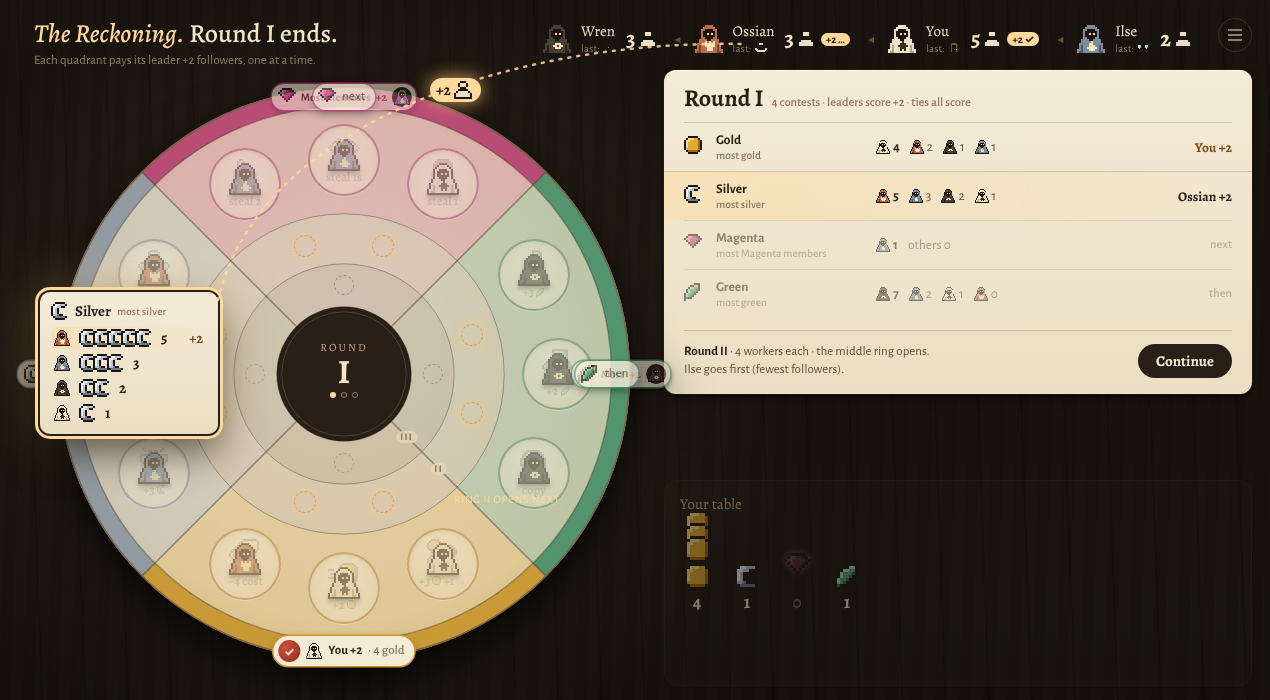
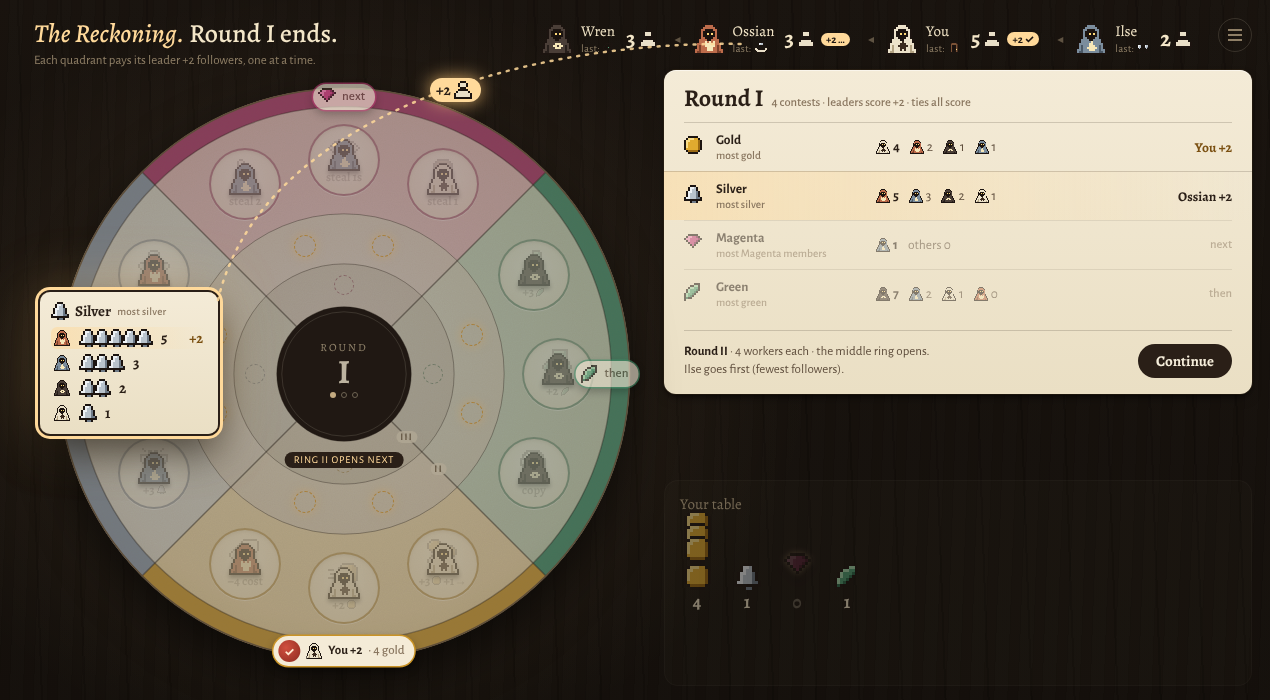
WIP checkpoint: agents in progress
Claude-Session: https://claude.ai/code/session_017rw3aQa9iJEjdvvwQLY84z

diff --git a/src/test/engine/v4/cards-echo.test.js b/src/test/engine/v4/cards-echo.test.js
@@ -11,7 +11,7 @@ const QT = ['gold', 'thieves', 'market', 'echo'];
 useCosts({
   'gold.tycoon': [8, 4], 'gold.taxman': [2, 2], 'gold.midas': [4, 4], 'red.bigfamily': [4, 4], 'red.twins': [2, 2],
   'red.intern': [2, 0], 'red.volunteer': [0, 0], 'red.doppel': [4, 2],
-  'echo.evergreen': [2, 2], 'echo.choir': [4, 2], 'echo.muse': [2, 2], 'echo.choirmaster': [4, 2], 'echo.fan': [2, 2],
+  'echo.evergreen': [2, 2], 'echo.choir': [4, 2], 'echo.muse': [2, 2], 'echo.understudy': [4, 2], 'echo.ensemble': [4, 4],
   'echo.groupie': [4, 4], 'echo.translator': [4, 2], 'echo.tuningfork': [2, 2], 'echo.wallflower': [2, 2],
   'echo.keepsake': [4, 2], 'echo.mirror': [4, 2], 'echo.afterimage': [4, 2], 'echo.hourglass': [6, 4],
   'echo.dejavu': [8, 4], 'echo.chronicler': [4, 4], 'thieves.watchdog': [4, 2],
@@ -37,7 +37,7 @@ describe('Green actions', () => {
     expect(R(go(table(Q, { shop: ROW }), 'Chant')).green).toBe(2);
     expect(R(go(table(Q, { shop: ROW, round: 3, left: 5 }), 'Chant')).green).toBe(6);
   });
-  it('Echo: copy an outer-ring space taken this round (exactly its chip)', () => {
+  it('Echo: copy a space a rival took since your last turn (exactly its chip)', () => {
     const s = humThenEcho();
     expect(R(s).green).toBe(3);
     expect(s.log.some(l => /P1 copied Hum \(P2's\): \+3 green/.test(l))).toBe(true);
@@ -61,13 +61,14 @@ describe('Green actions', () => {
     s = take(s, 'Encore');
     expect(s.pending.options.map(o => o.label)).toEqual(['Chant (P2): +6 green']);
   });
-  it('Recall: any space taken last round', () => {
-    let s = table(Q, { shop: ROW, queue: turns(1) });
-    s = go(s, 'Chant');
-    s.round = 2; s.slots = {}; s.queue = turns(0); s.pending = null;
-    s = move({ ...s, queue: [{ t: 'choose', p: 0, options: [{ id: 'x', value: null }], h: 'market.pickRow', data: { why: 'test' } }, ...s.queue], pending: { player: 0, options: [{ id: 'x' }] } }, 'x');
-    s = go(s, 'Recall', sp('Chant'));
-    expect(R(s).green).toBe(2); // last round's printed 2
+  it('Refrain: +2 green, and copy one of your spaces from this round (named in the log)', () => {
+    let s = table(Q, { round: 2, shop: ROW, queue: turns(0, 1, 0) });
+    s = go(s, 'Chant'); s = go(s, 'Hum');
+    s = take(s, 'Refrain');
+    expect(s.pending.options.map(o => o.label)).toEqual(['Chant (P1): +4 green']); // P2's Hum isn't yours
+    s = pass(move(s, s.pending.options[0].id));
+    expect(R(s).green).toBe(4 + 2 + 4);
+    expect(s.log.some(l => /P1 copied Chant: \+4 green/.test(l))).toBe(true);
   });
   it('Eternity: copy every space you took this round', () => {
     let s = table(Q, { round: 3, left: 5, shop: ROW, queue: turns(0, 0, 0) });
@@ -99,16 +100,19 @@ describe('Green members', () => {
     expect(R(s, 1).green).toBe(3 + 2);
     expect(named(s, 'Muse')).toEqual(["P2's Muse: +2 green."]);
   });
-  it('Choirmaster: whenever a rival copies a space, +1 green (named)', () => {
-    const s = humThenEcho({ n: 3, members: [[], [], ['echo.choirmaster']] });
-    expect(R(s, 2).green).toBe(1);
-    expect(named(s, 'Choirmaster').length).toBe(1);
+  it('Understudy: when recruited, copy a space a rival took since your last turn (named)', () => {
+    let s = table(Q, { round: 2, shop: ['echo.understudy', ...ROW], res: [{ green: 4, red: 2 }], queue: turns(1, 0) });
+    s = go(s, 'Chant');
+    s = move(take(s, 'Hum'), cardOpt(s, 'echo.understudy', 'shop'));
+    s = payDefault(s);
+    expect(s.pending.options.map(o => o.label)).toEqual(['Chant (P2): +4 green']);
+    s = move(s, s.pending.options[0].id);
+    expect(R(s).green).toBe(4 + 3 - 4 + 4 - Math.max(0, 2 - 2));
+    expect(named(s, 'Understudy').length).toBe(1);
   });
-  it('Fan: whenever a rival takes a center space, +2 green (named)', () => {
-    let s = table(Q, { round: 3, left: 5, shop: ROW, members: [[], ['echo.fan']] });
-    s = go(s, 'Strike');
-    expect(R(s, 1).green).toBe(2);
-    expect(named(s, 'Fan').length).toBe(1);
+  it('Ensemble: game end, +1 follower per green member (named in the final parts)', () => {
+    const s = table(Q, { members: [['echo.ensemble', 'echo.muse', 'red.twins']], shop: ROW, queue: [{ t: 'finish' }] });
+    expect(s.players[0].final.parts).toContain('Ensemble +2');
   });
   it('Groupie: whenever anyone recruits a green member, +1 green (named)', () => {
     let s = table(Q, { res: [{ green: 6 }], shop: ['echo.muse', ...ROW], members: [[], ['echo.groupie']] });

diff --git a/design/prototypes/vision/f3-round-end.html b/design/prototypes/vision/f3-round-end.html
@@ -15,7 +15,8 @@
 .table > *{z-index:1}
 .board .sock{opacity:.42}
 .board .sock2.ii{opacity:1;border-color:#e0a23a;box-shadow:0 0 10px rgba(255,200,120,.6)}
-.board .plaque{opacity:.55}
+.board .plaque{display:none}
+.board{filter:brightness(.78) saturate(.85) drop-shadow(0 18px 22px rgba(0,0,0,.55)) !important}
 .stand{position:absolute;border-radius:10px;padding:9px 11px 10px;z-index:4;width:178px}
 .stand h5{font-family:var(--serif);font-size:15px;font-weight:700;color:var(--ink);display:flex;align-items:center;gap:6px}
 .stand h5 small{font-family:var(--sans);font-size:11px;font-weight:500;color:var(--ink-3);letter-spacing:.02em}
@@ -55,7 +56,7 @@
 .mine .row{display:flex;align-items:flex-end;gap:26px;margin-top:10px}
 .arc{position:absolute;inset:0;z-index:5;pointer-events:none}
 .fly{position:absolute;z-index:6;display:flex;align-items:center;gap:3px;font-family:var(--serif);font-weight:700;font-size:15px;color:#2a1f17;background:#ffd99a;border-radius:14px;padding:2px 9px 2px 6px;box-shadow:0 0 18px rgba(255,200,120,.8)}
-.ringnote{position:absolute;z-index:4;font-size:11.5px;color:#ffd99a;letter-spacing:.06em;text-transform:uppercase;text-align:center;width:160px}
+.ringnote{position:absolute;z-index:4;font-size:10.5px;color:#ffd99a;letter-spacing:.08em;text-transform:uppercase;text-align:center;background:#2a1f17;border-radius:10px;padding:2px 9px;transform:translateX(-50%);white-space:nowrap}
 </style>
 </head>
 <body>
@@ -93,7 +94,7 @@ T.insertAdjacentHTML('beforeend', `<div class="stand paper live" style="left:40p
 // the follower token flies from the contest to the winner's seat on the rail
 T.insertAdjacentHTML('beforeend', `<svg class="arc" width="1270" height="700"><path d="M218,300 C260,120 520,40 742,44" fill="none" stroke="#ffd99a" stroke-width="2.5" stroke-dasharray="2 7" stroke-linecap="round" opacity=".85"/></svg>
   <div class="fly" style="left:430px;top:78px">+2 ${sp('follower', 2)}</div>`);
-{ const [x, y] = pol(160, 45); T.insertAdjacentHTML('beforeend', `<div class="ringnote" style="left:${x - 30}px;top:${y + 6}px">Ring II opens next</div>`); }
+T.insertAdjacentHTML('beforeend', `<div class="ringnote" style="left:344px;top:452px">Ring II opens next</div>`);
 // the ledger: the same numbers the engine scores, in words. Waits for you.
 const g = (c, n, w, lead) => `<span class="${lead ? 'lead' : ''}">${sp('acolyte', 1, S[w])}${n}</span>`;
 document.getElementById('ledger').innerHTML = `

diff --git a/src/v4/game/Players.jsx b/src/v4/game/Players.jsx
@@ -171,7 +171,8 @@ export default function Players({ state, active, mySeats, gifts = [], robbed = n
             </div>
             <ChipRow
               state={state} p={p} own={mySeats.includes(p.id)}
-              onOpen={(el, g) => setPop(pp => (pp && pp.group && pp.group.key === g.key && pp.pid === p.id ? null : { el, group: g, pid: p.id }))}
+              // a click on a chip whose card is open from hovering pins it (it used to close it: hover opened, click shut)
+              onOpen={(el, g) => setPop(pp => (pp && pp.group && pp.group.key === g.key && pp.pid === p.id && !pp.hover ? null : { el, group: g, pid: p.id }))}
               onAll={el => setPop({ el, all: true, pid: p.id })}
               onHover={(el, g) => setPop(pp => (g ? (pp && !pp.hover ? pp : { el, group: g, pid: p.id, hover: true }) : (pp && pp.hover ? null : pp)))}
             />

diff --git a/src/test/v4/ui/colors.test.js b/src/test/v4/ui/colors.test.js
@@ -4,7 +4,7 @@ import { describe, it, expect } from 'vitest';
 import { readFileSync } from 'node:fs';
 import { PLAYER_COLORS } from '../../../v4/format.js';
 
-const css = readFileSync(new URL('../../../v4/v4.css', import.meta.url), 'utf8');
+const css = readFileSync(`${process.cwd()}/src/v4/v4.css`, 'utf8');
 const root = css.slice(css.indexOf(':root{'), css.indexOf('}', css.indexOf(':root{')));
 const varOf = name => (root.match(new RegExp(`--${name}:(#[0-9a-fA-F]{6})`)) || [])[1];
 const RESOURCES = ['gold', 'red', 'blue', 'green', 'magenta', 'yellow', 'purple', 'silver', 'white'];

diff --git a/src/test/v4/ui/truth/contest-truth.jsx b/src/test/v4/ui/truth/contest-truth.jsx
@@ -16,7 +16,7 @@ const ids = s => (s ? s.split(',').filter(Boolean).map(Number) : []);
 export function checkContestTruth(g0, n) {
   let cards = 0, live = 0;
   playMixedGames(n, {
-    g0, botEvery: 8,
+    g0, botEvery: 16,
     onMove(s, g) {
       if (s.over || s.round < 1 || s.moves % 23) return;
       for (const st of standings(s)) {

diff --git a/design/prototypes/vision/px.js b/design/prototypes/vision/px.js
@@ -47,15 +47,15 @@ kggggggGk
 .kGGGGGk.
 ..kkkkk..`;
 S.silver = `
-..kkkkk..
-.kllsssk.
-kllsskk..
-klsk.....
-klsk.....
-klsk.....
-kssSkk...
-.kSSSSSk.
-..kkkkk..`;
+...kkk...
+..kllsk..
+..klssk..
+.kllssSk.
+.klsssSk.
+.klsssSk.
+kllsssSSk
+kkkkkkkkk
+...kSSk..`;
 S.magenta = `
 ..kkkkk..
 .kppmmMk.
